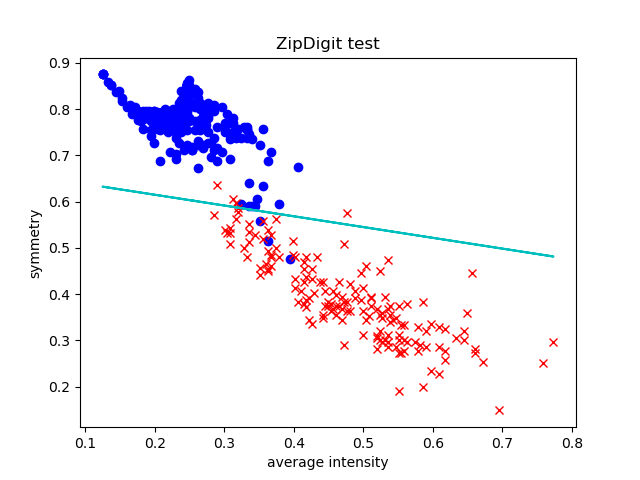
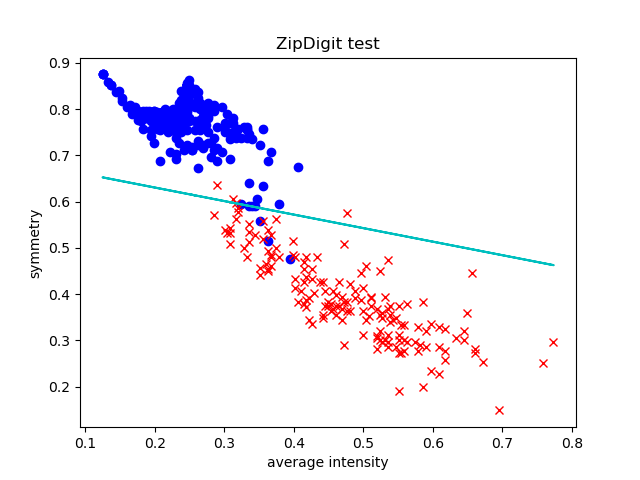
hw7

Changed region(s): [[0.5625, 0.4688, 0.875, 0.5625], [0.1562, 0.3438, 0.4062, 0.4375], [0.4062, 0.4375, 0.5, 0.4688]]

diff --git a/homework/hw7/problem1a.py b/homework/hw7/problem1a.py
@@ -98,6 +98,9 @@ def gather_data(filename):
     Dx = np.insert(intensitys, [1], symmetrys, axis=1)
     Dx = np.insert(Dx, 0, count*[1], axis=1)
 
+    if filename.split('.')[1] != 'train':
+        return intensitys, Dx, Dy, count
+
     final_w = linear_regression(Dx, Dy)
     new_x2 = np.array((-final_w[1]/final_w[2])*intensitys+(-final_w[0]/final_w[2]))
     plt.plot(intensitys, new_x2, "c")
@@ -105,7 +108,9 @@ def gather_data(filename):
     return Dx, Dy, final_w, count
 
 if __name__ == '__main__':
-    gather_data("ZipDigits.train")
+    Dx, Dy, final_w, count = gather_data("ZipDigits.train")
     plt.show()
-    gather_data("ZipDigits.test")
+    intensitys, Dx, Dy, count = gather_data("ZipDigits.test")
+    new_x2 = np.array((-final_w[1]/final_w[2])*intensitys+(-final_w[0]/final_w[2]))
+    plt.plot(intensitys, new_x2, "c")
     plt.show()

diff --git a/homework/hw7/problem1b.py b/homework/hw7/problem1b.py
@@ -10,6 +10,6 @@ Dx, Dy, final_w, count = gather_data("ZipDigits.train")
 E_in = np.linalg.norm(np.matmul(Dx, final_w) - Dy) ** 2 / count
 print("E_in is: {:.3f}".format(E_in))
 
-Dx, Dy, final_w, count = gather_data("ZipDigits.test")
+intensitys, Dx, Dy, count = gather_data("ZipDigits.test")
 E_test = np.linalg.norm(np.matmul(Dx, final_w) - Dy) ** 2 / count
 print("E_test is: {:.3f}".format(E_test))
